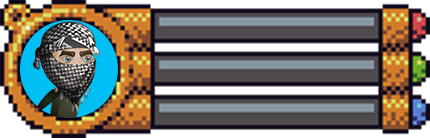
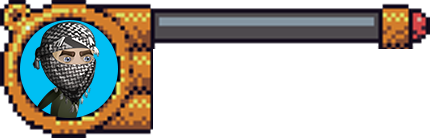
updates

diff --git a/javascripts/GameObjects/Enemy/Zombie.js b/javascripts/GameObjects/Enemy/Zombie.js
@@ -11,6 +11,8 @@ class Zombie
         this.walking=new Animation('./images/zombie_walking.png',280,999,111,66,6);
         this.attacking=new Animation('./images/zombie_attacking.png',280,1137,111,75,6);
         this.dead=new Animation('./images/zombie_dead.png',280,2634,111,118,8,false);
+        this.healthBar=new Image();
+        this.healthBar.src='./images/health_bar.png';
 
         this.position={x:500,y:480};
         this.height=111;
@@ -29,6 +31,8 @@ class Zombie
         this.health=100;
         this.player=player;
         this.attackRange={height:40,width:40};
+        this.healthBarMaxWidth=70;
+        this.healthBarWidth=70;
 
         this.bullet=bullet;
     }
@@ -37,7 +41,9 @@ class Zombie
         
     }
     update()
-    {
+    { 
+        this.healthBarWidth=Math.floor((this.health/100)*this.healthBarMaxWidth);
+        this.health=Math.max(0,this.health);
         if(this.health>0)
         {
             if(this.velocity.x>0.25||this.velocity.x<-0.25)
@@ -123,8 +129,7 @@ class Zombie
     }
     draw(canvasContext)
     {
-        canvasContext.font='20px Arial';
-        canvasContext.fillText(""+this.health,this.position.x,this.position.y-20);
+        canvasContext.drawImage(this.healthBar,0,0,223,23,this.position.x,this.position.y-20,this.healthBarWidth,10);
        // this.handleCollision(canvasContext); // for experimental purpose only
         if(this.mirrored==1)
         {
@@ -165,108 +170,14 @@ class Zombie
     {
         this.onTheGround=false;
         if (this.position.x < this.bullet.position.x + this.bullet.width &&
-                     this.position.x + this.width > this.bullet.position.x &&
-                     this.position.y < this.bullet.position.y+this.bullet.height &&
-                     this.position.y + this.height > this.bullet.position.y)
-                     {
-                        this.health-=30;
-                        this.bullet.state='idle';
-                        this.bullet.position.x=0;
-                     } 
-        // for(var i=0;i<this.Map.map.length;i++)
-        // {
-        //     for(var j=0;j<this.Map.map[i].length;j++)
-        //     {
-        //         if (this.position.x < (j*this.Map.tileWidth) + this.Map.tileWidth &&
-        //             this.position.x + this.width > (j*this.Map.tileWidth) &&
-        //             this.position.y < (i*this.Map.tileHeight)+this.Map.tileHeight &&
-        //             this.position.y + this.height > (i*this.Map.tileHeight)) 
-        //             {
-        //                 canvasContext.strokeStyle="red";
-        //                 canvasContext.strokeRect(this.position.x,this.position.y,this.width,this.height);
-        //                 canvasContext.strokeStyle="yellow";
-        //                 canvasContext.strokeRect((j*this.Map.tileWidth),(i*this.Map.tileHeight),this.Map.tileWidth,this.Map.tileHeight);
-        //                 //edge block type
-        //                 if(this.Map.map[i][j]==2)
-        //                 {
-        //                     //collision for block Type (four Direction)
-        //                     var width=0.5*(this.width+this.Map.tileWidth);
-        //                     var height=0.5*(this.height+this.Map.tileHeight);
-        //                     var dx=(this.position.x+(this.width/2))-(j*this.Map.tileWidth+(this.Map.tileWidth/2));
-        //                     var dy=(this.position.y+(this.height/2))-(i*this.Map.tileHeight+22+(this.Map.tileHeight/2));
-        //                     if(Math.abs(dx)<=width&&Math.abs(dy)<=height)
-        //                     {
-        //                         var wy=width*dy;
-        //                         var hx=height*dx;
-        //                         if(wy>hx)
-        //                         {
-        //                             if(wy>-hx)
-        //                             {
-        //                                 this.position.y=(i*this.Map.tileHeight+this.Map.tileHeight);
-        //                             }
-        //                             else
-        //                             {
-        //                                 this.velocity.x=0;
-        //                                 this.position.x-=2;
-        //                             }
-        //                         }
-        //                         else
-        //                         {
-        //                             if(wy>-hx)
-        //                             {
-        //                                 this.velocity.x=0;
-        //                                 this.position.x+=2;
-        //                             }
-        //                             else
-        //                             {
-        //                                 this.position.y=(i*this.Map.tileHeight-this.height+22);
-        //                                 this.onTheGround=true;
-        //                             }
-        //                         }
-        //                     }
-        //                 }
-        //                 //block
-        //                 if(this.Map.map[i][j]==5)
-        //                 {
-        //                     //collision for block Type (four Direction)
-        //                     var width=0.5*(this.width+this.Map.tileWidth);
-        //                     var height=0.5*(this.height+this.Map.tileHeight);
-        //                     var dx=(this.position.x+(this.width/2))-(j*this.Map.tileWidth+(this.Map.tileWidth/2));
-        //                     var dy=(this.position.y+(this.height/2))-(i*this.Map.tileHeight+(this.Map.tileHeight/2));
-        //                     if(Math.abs(dx)<=width&&Math.abs(dy)<=height)
-        //                     {
-        //                         var wy=width*dy;
-        //                         var hx=height*dx;
-        //                         if(wy>hx)
-        //                         {
-        //                             if(wy>-hx)
-        //                             {
-        //                                 this.position.y=(i*this.Map.tileHeight+this.Map.tileHeight);
-        //                             }
-        //                             else
-        //                             {
-        //                                 this.velocity.x=0;
-        //                                 this.position.x-=2;
-        //                             }
-        //                         }
-        //                         else
-        //                         {
-        //                             if(wy>-hx)
-        //                             {
-        //                                 this.velocity.x=0;
-        //                                 this.position.x+=2;
-        //                             }
-        //                             else
-        //                             {
-        //                                 this.position.y=(i*this.Map.tileHeight-this.height);
-        //                                 this.onTheGround=true;
-        //                             }
-        //                         }
-        //                     }
-        //                 }
-        //             }  
-        //     }
-        // }
+            this.position.x + this.width > this.bullet.position.x &&
+            this.position.y < this.bullet.position.y+this.bullet.height &&
+            this.position.y + this.height > this.bullet.position.y)
+            {
+                this.health-=30;
+                this.bullet.state='idle';
+                this.bullet.position.x=0;
+            } 
     }
 }
 export {Zombie};

diff --git a/javascripts/GameObjects/Enemy/OrcLord.js b/javascripts/GameObjects/Enemy/OrcLord.js
@@ -11,6 +11,8 @@ class OrcLord
         this.walking=new Animation('./images/villain_walk.png',280,2526,181,232,7);
         this.attacking=new Animation('./images/villain_attack.png',280,2037,241,232,7);
         this.dead=new Animation('./images/villain_die.png',280,3189,181,309,7,false);
+        this.healthBar=new Image();
+        this.healthBar.src='./images/health_bar.png';
 
         this.position={x:500,y:480};
         this.height=181;
@@ -26,6 +28,8 @@ class OrcLord
         this.health=100;
         this.player=player;
         this.attackRange={height:140,width:90};
+        this.healthBarMaxWidth=200;
+        this.healthBarWidth=200;
         this.mainVillainState=mainVillainState;
         this.bullet=bullet;
     }
@@ -35,6 +39,8 @@ class OrcLord
     }
     update()
     {
+        this.healthBarWidth=Math.floor((this.health/100)*this.healthBarMaxWidth);
+        this.health=Math.max(0,this.health);
         if(this.health>0)
         {
             if(this.velocity.x>0.25||this.velocity.x<-0.25)
@@ -56,8 +62,8 @@ class OrcLord
                     this.mirrored=1;
                     this.velocity.x-=1;
                 }
-                if (this.position.x+30 < this.player.position.x + this.player.width &&
-                    this.position.x+30 + this.attackRange.width > this.player.position.x &&
+                if (this.position.x+90 < this.player.position.x + this.player.width &&
+                    this.position.x+90 + this.attackRange.width > this.player.position.x &&
                     this.position.y < this.player.position.y+this.player.height &&
                     this.position.y + this.attackRange.height > this.player.position.y) 
                     {
@@ -124,8 +130,7 @@ class OrcLord
     }
     draw(canvasContext)
     {
-        canvasContext.font='20px Arial';
-        canvasContext.fillText(""+this.health,this.position.x,this.position.y-20);
+        canvasContext.drawImage(this.healthBar,0,0,223,23,this.position.x,this.position.y-20,this.healthBarWidth,14);
        // this.handleCollision(canvasContext); // for experimental purpose only
         if(this.mirrored==1)
         {
@@ -159,7 +164,7 @@ class OrcLord
             if(this.animationState.current==this.animationState.dead)
             this.dead.draw(canvasContext,this.position.x,this.position.y);
             canvasContext.strokeStyle='blue';
-            canvasContext.strokeRect(this.position.x+30,this.position.y,this.attackRange.width,this.attackRange.height);
+            canvasContext.strokeRect(this.position.x+90,this.position.y,this.attackRange.width,this.attackRange.height);
         }
     }
     handleCollision()

diff --git a/javascripts/GameObjects/Bullet.js b/javascripts/GameObjects/Bullet.js
@@ -1,9 +1,9 @@
 class Bullet
 {
-    constructor()
+    constructor(assetManager)
     {
-        this.image=new Image();
-        this.image.src='./images/bullet.png';
+        this.assetManager=assetManager;
+        this.assetManager.loadImageAsset('bullet','./images/bullet.png');
         this.state='idle';
         this.position={x:0,y:0};
         this.shootFrom={x:0,y:0};
@@ -44,7 +44,7 @@ class Bullet
     draw(canvasContext)
     {
         if(this.state=='shooting')
-        canvasContext.drawImage(this.image,this.position.x,this.position.y,this.width,this.height);
+        canvasContext.drawImage(this.assetManager.getImageAsset('bullet'),this.position.x,this.position.y,this.width,this.height);
     }
 }
 export {Bullet}

diff --git a/javascripts/GameWorld.js b/javascripts/GameWorld.js
@@ -18,7 +18,7 @@ class GameWorld
         this.tileMap=new TileMap();
         this.worldSize={height:720,width:this.tileMap.getMapWidth()};
         this.camera=new Camera(this.worldSize);
-        this.bullet=new Bullet();
+        this.bullet=new Bullet(this.assetManager);
         this.player=new Player(this.tileMap,this.bullet,this.state);
         this.enemyList=new EnemyList(this.tileMap,this.player,this.bullet,this.mainVillainState);
         this.pickUpList=new PickUpList(this.tileMap,this.player,this.mainVillainState);

diff --git a/javascripts/GameStates/GameOverState.js b/javascripts/GameStates/GameOverState.js
@@ -7,7 +7,7 @@ class GameOverState
         this.assetManager=assetManager;
         this.assetManager.loadImageAsset('gameOverScreen','./images/gameOver.png');
         this.gameState=gameState;
-        this.restartButton=new Button(this.assetManager,'restartButton','./images/restartButton.png',380,480,60,140);
+        this.restartButton=new Button(this.assetManager,'restartButton','./images/restartButton.png',380,480,60,180);
         this.coinCollected=0;
     }
     handleInput(inputController)

diff --git a/javascripts/GameStates/GameWonState.js b/javascripts/GameStates/GameWonState.js
@@ -7,7 +7,7 @@ class GameWonState
         this.assetManager=assetManager;
         this.assetManager.loadImageAsset('GameWonScreen','./images/gameWon.png');
         this.gameState=gameState;
-        this.restartButton=new Button(this.assetManager,'restartButton','./images/restartButton.png',380,480,60,140);
+        this.restartButton=new Button(this.assetManager,'restartButton','./images/restartButton.png',380,480,60,180);
         this.coinCollected=0;
     }
     handleInput(inputController)

diff --git a/javascripts/Utilities/AssetManager.js b/javascripts/Utilities/AssetManager.js
@@ -21,8 +21,9 @@ class AssetManager
     }
     displayStatus(canvasContext)
     {
-        canvasContext.font = "30px Arial";
-        canvasContext.fillText("Loading :",this.loadedImage,'/',this.totalImages, 10, 50);
+        canvasContext.font = "40px Arial";
+        canvasContext.fillText("Loading :",this.loadedImage,'/',this.totalImages, 100, 220);
+        console.log("Loading :",this.loadedImage,'/',this.totalImages);
     }
 }
 export {AssetManager};
